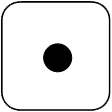
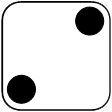
commit

Changed region(s): [[0.0, 0.0, 0.3214, 0.9911], [0.6696, 0.0, 0.9911, 0.9911], [0.375, 0.375, 0.6696, 0.6696]]

diff --git a/index.html b/index.html
@@ -5,9 +5,28 @@
     <meta name="viewport" content="width=device-width, initial-scale=1.0">
     <title>Dice Game</title>
     <link rel="stylesheet" href="style.css">
+    <link href="https://fonts.googleapis.com/css2?family=Handjet:wght@300&display=swap" rel="stylesheet">
 </head>
 <body>
-    
+    <div class="main">
+        <div class="above">
+            <h1 class="message">Start The game</h1>
+        </div>
+        <div class="below">
+            <div id="leftDice">
+                <p>Player 1</p>
+                <div id="player1Dice">
+                    <img src="pic/" alt="">
+                </div>
+            </div>
+            <div id="rightDice">
+                <p>Player 2</p>
+                <div id="player2Dice">
+                </div>
+            </div>
+        </div>
+        <button type="button" id="rollDice">Draw dice</button>
+    </div> 
     <script src="work.js"></script>
 </body>
 </html>

diff --git a/work.js b/work.js
@@ -1,0 +1,25 @@
+let player1 = document.querySelector("#player1Dice");
+let player2 = document.querySelector("#player2Dice");
+let rollBtn = document.querySelector("#rollDice");
+let message = document.querySelector(".message");
+
+function randomDice(){
+    let num = Math.floor(Math.random()*6);
+    return num;
+}
+rollBtn.addEventListener("click", function(){
+    let num1 = randomDice();
+    let num2 = randomDice();
+    player1.innerHTML = `<img src="pic/Alea_${num1}.png" alt="dice">`;
+    player2.innerHTML = `<img src="pic/Alea_${num2}.png" alt="dice">`;
+    if(num1 > num2)
+    {
+        message.textContent = "Player 1 wins!!";
+    }
+    else if( num1 == num2){
+        message.textContent = "Game is tie!!";
+    }
+    else{
+        message.textContent = "Player 2 wins!!";
+    }
+})

diff --git a/style.css b/style.css
@@ -1,0 +1,43 @@
+*{
+    padding : 0;
+    margin: 0;
+
+}
+body{
+    padding: 0;
+    margin: 0;
+    font-family:'Handjet', cursive; ;
+    background-color: blueviolet;
+}
+
+.main{
+    text-align: center;
+}
+.above{
+    margin: 20px 0px;
+    font-size: 50px;
+    color: rgb(16, 156, 243)
+}
+.below{
+    display: flex;
+    justify-content: center;
+}
+#leftDice, #rightDice{
+    margin: 12px 30px;
+}
+#leftDice>p, #rightDice>p{
+    font-size: large;
+    font-weight: 600;
+    color: blueviolet;
+    margin-bottom: 12px;
+}
+#rollDice{
+    padding: 12px;
+    background-color: aquamarine;
+    border-radius: 12px;
+    font-family: fantasy;
+}
+#rollDice:hover{
+    background-color: aqua;
+    cursor: pointer;
+}
